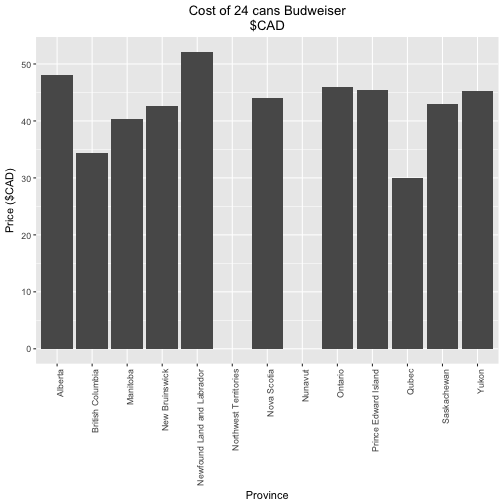
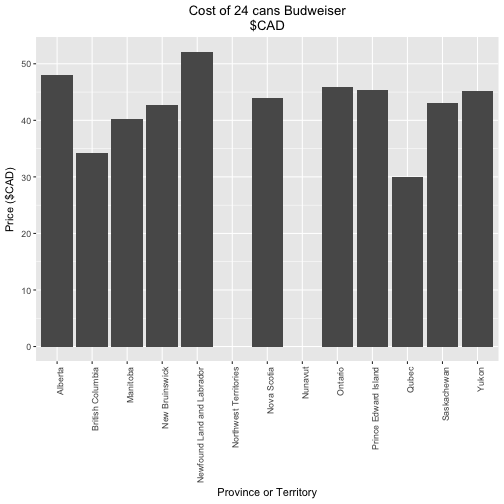
fixed text

diff --git a/_posts/2017-01-02-beer-prices-quick.md b/_posts/2017-01-02-beer-prices-quick.md
@@ -21,7 +21,7 @@ Data was gathered from provincial liquor control website or from retailers websi
 {% highlight r %}
 b.avg.df <- ddply(b.df, .(Province), summarise, avg.Price=mean(Cost.cad))
 
-ggplot(b.avg.df, aes(x=Province, y=avg.Price)) + geom_bar(stat="identity") + ggtitle("Cost of 24 cans Budweiser\n$CAD") + ylab("Price ($CAD)") + theme(axis.text.x = element_text(angle = 90, hjust=1), plot.title=element_text(hjust=0.5))
+ggplot(b.avg.df, aes(x=Province, y=avg.Price)) + geom_bar(stat="identity") + ggtitle("Cost of 24 cans Budweiser\n$CAD") + ylab("Price ($CAD)") + xlab("Province or Territory") + theme(axis.text.x = element_text(angle = 90, hjust=1), plot.title=element_text(hjust=0.5))
 {% endhighlight %}
 
 ![]({{ site.url }}/assets/2017-01-02-beer-prices-quick/data-1.png){: .centerIMG} 
@@ -35,19 +35,19 @@ kable(b.df, align='c')
 
 
 
-|          Province          |                                                                                   Link                                                                                   | Cost.cad |       Product       |    Date    |       Store       |
-|:--------------------------:|:------------------------------------------------------------------------------------------------------------------------------------------------------------------------:|:--------:|:-------------------:|:----------:|:-----------------:|
-|           Qubec            |                                                                http://www.dcbeersales.ca/beer-prices.html                                                                |  29.99   | 24 Can of Budweiser | 02/01/2017 |                   |
-|      British Columbia      |                                                               http://www.bcliquorstores.com/product/906354                                                               |  34.29   | 24 Can of Budweiser | 02/01/2017 |     BC Liquor     |
-|        Saskachewan         | http://www.saskliquor.com/SaskLiquorWeb/ProductDetail.aspx?ID=1511&ref=L1Nhc2tMaXF1b3JXZWIvUHJvZHVjdFNlYXJjaFJlc3VsdHMuYXNweD9rZXl3b3Jkcz1idWR3ZWlzZXI%3d-mNH1D34amtE%3d |  42.99   | 24 Can of Budweiser | 02/01/2017 |    Sask Liquor    |
-|          Manitoba          |                                                         http://www.liquormarts.ca/product/budweiser/24-x-355-ml                                                          |  40.31   | 24 Can of Budweiser | 02/01/2017 |       MLCC        |
-|          Ontario           |                                                                http://www.thebeerstore.ca/beers/budweiser                                                                |  45.95   | 24 Can of Budweiser | 02/01/2017 |     BeerStore     |
-|       New Bruinswick       |                                                         http://www.nbliquor.com/documents/Current_Price_List.pdf                                                         |  42.65   | 24 Can of Budweiser | 02/01/2017 |     NB Liquor     |
-|        Nova Scotia         |                                                 https://www.mynslc.com/en/products/Beer/Lager/Pale%20Lager/1016378.aspx                                                  |  43.95   | 24 Can of Budweiser | 02/01/2017 |                   |
-| Newfound Land and Labrador |                                                      http://www.nlliquor.com/products/16052/Budweiser%20Cans%2024pk                                                      |  52.13   | 24 Can of Budweiser | 02/01/2017 |    NLL Liquor     |
-|    Prince Edward Island    |                                               http://liquorpei.com/wp-content/uploads/2016/07/December-2016-Price-List.pdf                                               |  45.39   | 24 Can of Budweiser | 02/01/2017 |    Liquor PEI     |
-|           Yukon            |                                                http://www.ylc.yk.ca/pdf/Price_List_Yukon_Liquor_Corporation_July_2016.pdf                                                |  45.20   | 24 Can of Budweiser | 02/01/2017 |        YLC        |
-|          Alberta           |                                                          http://www.liquordirect.ca/Budweiser-Beer-P10623.aspx                                                           |  47.99   | 24 Can of Budweiser | 02/01/2017 | Liquor Depot/Barn |
-|          Alberta           |                                                                     http://liquor.sobeys.com/flyer/                                                                      |  47.99   | 24 Can of Budweiser | 02/01/2017 |      Sobeys       |
-|   Northwest Territories    |                                                                                                                                                                          |    NA    |                     |            |                   |
-|          Nunavut           |                                                                                                                                                                          |    NA    |                     |            |                   |
+|          Province          | Cost.cad |       Product       |    Date    |       Store       |                                                                                   Link                                                                                   |
+|:--------------------------:|:--------:|:-------------------:|:----------:|:-----------------:|:------------------------------------------------------------------------------------------------------------------------------------------------------------------------:|
+|           Qubec            |  29.99   | 24 Can of Budweiser | 02/01/2017 |                   |                                                                http://www.dcbeersales.ca/beer-prices.html                                                                |
+|      British Columbia      |  34.29   | 24 Can of Budweiser | 02/01/2017 |     BC Liquor     |                                                               http://www.bcliquorstores.com/product/906354                                                               |
+|        Saskachewan         |  42.99   | 24 Can of Budweiser | 02/01/2017 |    Sask Liquor    | http://www.saskliquor.com/SaskLiquorWeb/ProductDetail.aspx?ID=1511&ref=L1Nhc2tMaXF1b3JXZWIvUHJvZHVjdFNlYXJjaFJlc3VsdHMuYXNweD9rZXl3b3Jkcz1idWR3ZWlzZXI%3d-mNH1D34amtE%3d |
+|          Manitoba          |  40.31   | 24 Can of Budweiser | 02/01/2017 |       MLCC        |                                                         http://www.liquormarts.ca/product/budweiser/24-x-355-ml                                                          |
+|          Ontario           |  45.95   | 24 Can of Budweiser | 02/01/2017 |     BeerStore     |                                                                http://www.thebeerstore.ca/beers/budweiser                                                                |
+|       New Bruinswick       |  42.65   | 24 Can of Budweiser | 02/01/2017 |     NB Liquor     |                                                         http://www.nbliquor.com/documents/Current_Price_List.pdf                                                         |
+|        Nova Scotia         |  43.95   | 24 Can of Budweiser | 02/01/2017 |       NSLC        |                                                 https://www.mynslc.com/en/products/Beer/Lager/Pale%20Lager/1016378.aspx                                                  |
+| Newfound Land and Labrador |  52.13   | 24 Can of Budweiser | 02/01/2017 |    NLL Liquor     |                                                      http://www.nlliquor.com/products/16052/Budweiser%20Cans%2024pk                                                      |
+|    Prince Edward Island    |  45.39   | 24 Can of Budweiser | 02/01/2017 |    Liquor PEI     |                                               http://liquorpei.com/wp-content/uploads/2016/07/December-2016-Price-List.pdf                                               |
+|           Yukon            |  45.20   | 24 Can of Budweiser | 02/01/2017 |        YLC        |                                                http://www.ylc.yk.ca/pdf/Price_List_Yukon_Liquor_Corporation_July_2016.pdf                                                |
+|          Alberta           |  47.99   | 24 Can of Budweiser | 02/01/2017 | Liquor Depot/Barn |                                                          http://www.liquordirect.ca/Budweiser-Beer-P10623.aspx                                                           |
+|          Alberta           |  47.99   | 24 Can of Budweiser | 02/01/2017 |      Sobeys       |                                                                     http://liquor.sobeys.com/flyer/                                                                      |
+|   Northwest Territories    |    NA    |                     |            |                   |                                                                                                                                                                          |
+|          Nunavut           |    NA    |                     |            |                   |                                                                                                                                                                          |
